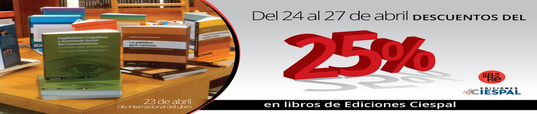
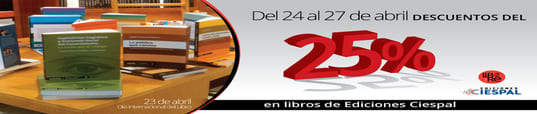
Optimizando imagenes

diff --git a/page/productos.html b/page/productos.html
@@ -8,7 +8,9 @@
     <meta name="description" content="Los mejores libros a los mejores precios">
     <meta name="keywords" content="Libro, Paginas, Resumen, Sinopsis, Libreria, Biblioteca, Novela, Obra"
     <meta property="og:type" content="Web site">
-    <meta property="og:type" content="MercadoLibro | Los mejores libros">
+    <meta property="og:title" content="MercadoLibro | Los mejores libros">
+    <meta property="og:url" content="https://mercadolibro.netlify.app/">
+    <meta property="og:image" content="./img/logoMercadoLibro.png">
     <link rel="shortcut icon" href="../img/logoMercadoLibro.png">
     <link rel="stylesheet" href="../css/estilos.css">
     <title>MercadoLibro</title>
@@ -16,7 +18,6 @@
 <body>
     <header>
         <nav>
-            <!-- Puedo agregar una imagen en vez de un titulo-->
             <div>
                 <a href="../index.html"><img src="../img/logoMercadoLibro.png" alt=""></a>
                 <h1>Mercado libro</h1>

diff --git a/page/contacto.html b/page/contacto.html
@@ -8,7 +8,9 @@
     <meta name="description" content="Los mejores libros a los mejores precios">
     <meta name="keywords" content="Libro, Paginas, Resumen, Sinopsis, Libreria, Biblioteca, Novela, Obra"
     <meta property="og:type" content="Web site">
-    <meta property="og:type" content="MercadoLibro | Los mejores libros">
+    <meta property="og:title" content="MercadoLibro | Los mejores libros">
+    <meta property="og:url" content="https://mercadolibro.netlify.app/">
+    <meta property="og:image" content="./img/logoMercadoLibro.png">
     <link rel="stylesheet" href="https://cdnjs.cloudflare.com/ajax/libs/animate.css/4.1.1/animate.min.css" />
     <link rel="shortcut icon" href="../img/logoMercadoLibro.png">
     <link rel="stylesheet" href="../css/estilos.css">

diff --git a/index.html b/index.html
@@ -8,7 +8,9 @@
     <meta name="description" content="Los mejores libros a los mejores precios">
     <meta name="keywords" content="Libro, Paginas, Resumen, Sinopsis, Libreria, Biblioteca, Novela, Obra"
     <meta property="og:type" content="Web site">
-    <meta property="og:type" content="MercadoLibro | Los mejores libros">
+    <meta property="og:title" content="MercadoLibro | Los mejores libros">
+    <meta property="og:url" content="https://mercadolibro.netlify.app/">
+    <meta property="og:image" content="./img/logoMercadoLibro.png">
     <link rel="stylesheet" href="./css/bootstrap.min.css">
     <link rel="stylesheet" href="./css/estilos.css">
     <link rel="shortcut icon" href="./img/logoMercadoLibro.png">

diff --git a/page/nosotros.html b/page/nosotros.html
@@ -8,7 +8,9 @@
     <meta name="description" content="Los mejores libros a los mejores precios">
     <meta name="keywords" content="Libro, Paginas, Resumen, Sinopsis, Libreria, Biblioteca, Novela, Obra" 
     <meta property="og:type" content="Web site">
-    <meta property="og:type" content="MercadoLibro | Los mejores libros">
+    <meta property="og:title" content="MercadoLibro | Los mejores libros">
+    <meta property="og:url" content="https://mercadolibro.netlify.app/">
+    <meta property="og:image" content="./img/logoMercadoLibro.png">
     <link rel="shortcut icon" href="../img/logoMercadoLibro.png">
     <link rel="stylesheet" href="../css/estilos.css">
     <title>MercadoLibro</title>

diff --git a/page/vender.html b/page/vender.html
@@ -8,7 +8,9 @@
     <meta name="description" content="Los mejores libros a los mejores precios">
     <meta name="keywords" content="Libro, Paginas, Resumen, Sinopsis, Libreria, Biblioteca, Novela, Obra"
     <meta property="og:type" content="Web site">
-    <meta property="og:type" content="MercadoLibro | Los mejores libros">
+    <meta property="og:title" content="MercadoLibro | Los mejores libros">
+    <meta property="og:url" content="https://mercadolibro.netlify.app/">
+    <meta property="og:image" content="./img/logoMercadoLibro.png">
     <link rel="shortcut icon" href="../img/logoMercadoLibro.png">
     <link rel="stylesheet" href="../css/estilos.css">
     <title>MercadoLibro</title>
